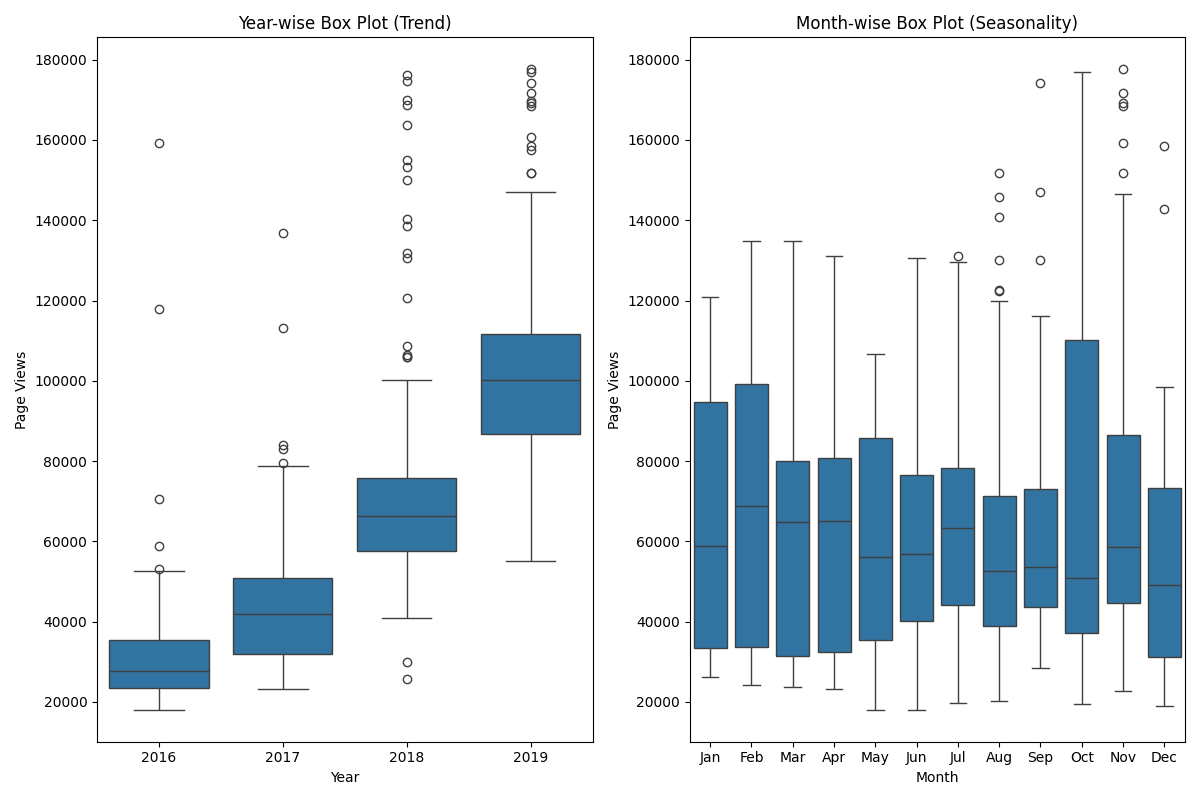
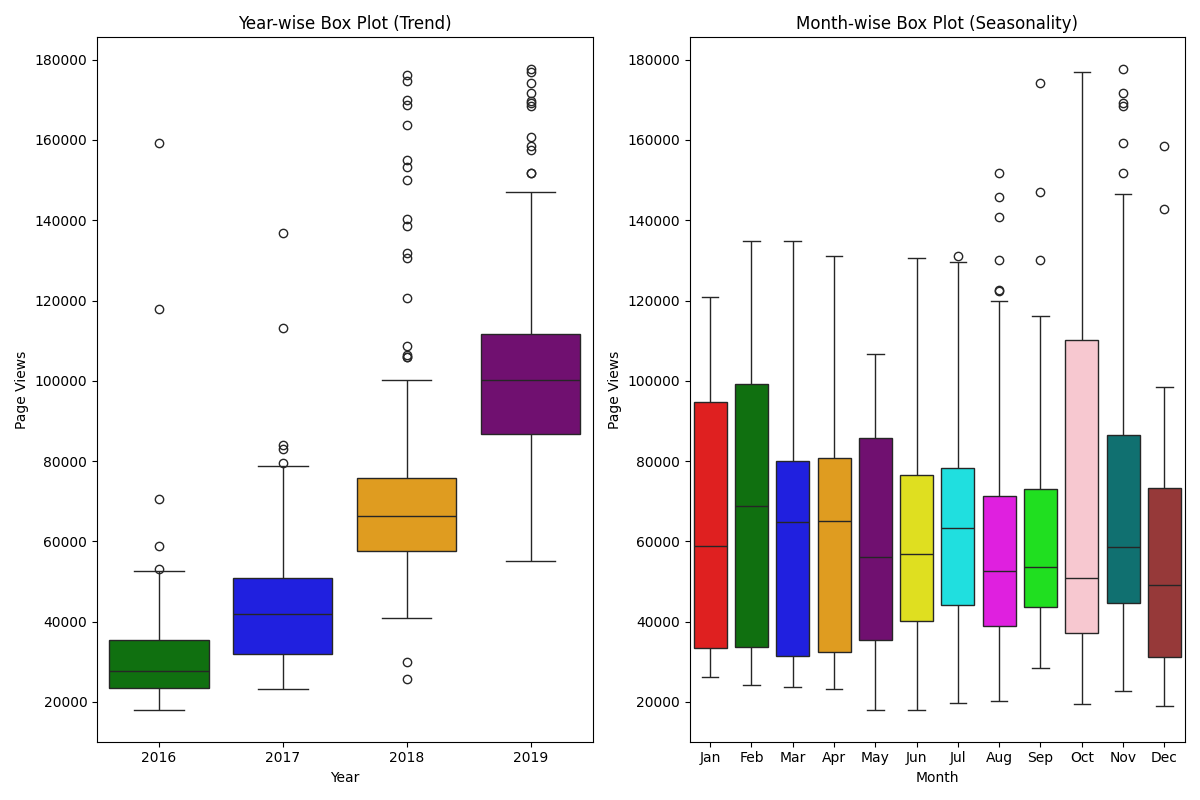
Assign unique colors to year-wise and month-wise box plots

diff --git a/time_series_visualizer.py b/time_series_visualizer.py
@@ -122,9 +122,10 @@ def draw_box_plot():
     fig, (ax1, ax2) = plt.subplots(1, 2, figsize=(12, 8))
 
     # Draw box plots (using Seaborn)
-    sns.boxplot(x=year_df, y=df_box['value'], ax=ax1)
+    colors = ['red', 'green', 'blue', 'orange', 'purple', 'yellow', 'cyan', 'magenta', 'lime', 'pink', 'teal', 'brown']
+    sns.boxplot(x=year_df, y=df_box['value'], palette=colors[1:5], ax=ax1)
     desired_order = ['Jan', 'Feb', 'Mar', 'Apr', 'May', 'Jun', 'Jul', 'Aug', 'Sep', 'Oct', 'Nov', 'Dec']
-    sns.boxplot(x=month_df, y=df_box['value'], order=desired_order, ax=ax2)
+    sns.boxplot(x=month_df, y=df_box['value'], order=desired_order, palette=colors, ax=ax2)
 
     # Set titles for each subplot
     ax1.set_title('Year-wise Box Plot (Trend)')
